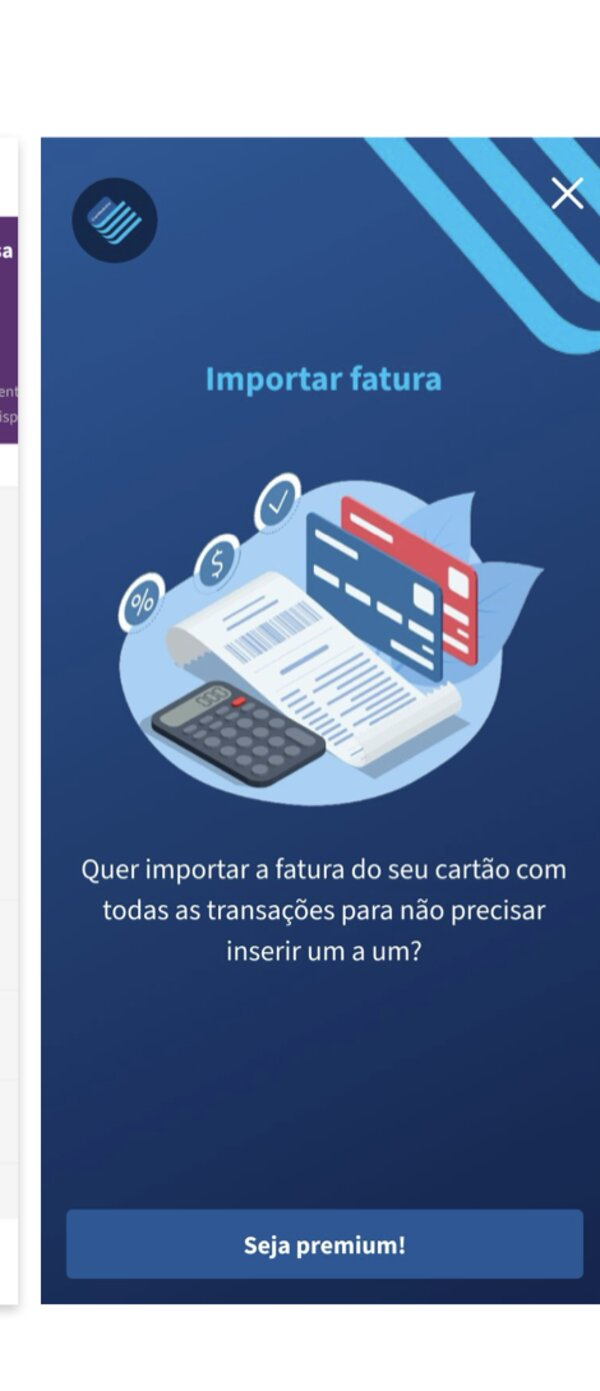
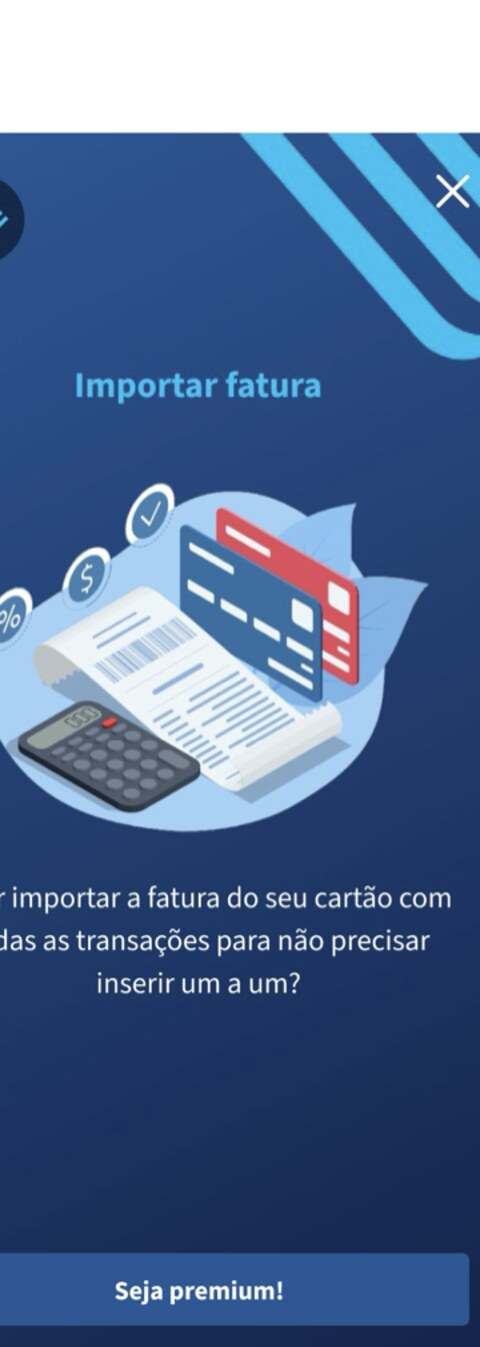
style: telas limpas sem moldura/fundo, cropadas direto dos mockups

diff --git a/src/styles/case.css b/src/styles/case.css
@@ -273,19 +273,21 @@
   color: var(--accent);
 }
 
-/* Telas individuais lado a lado (mockups limpos) */
+/* Telas individuais lado a lado (mockups sem moldura) */
 .screen-row {
   display: grid;
-  gap: 18px;
-  margin: 24px 0 32px;
+  gap: 24px;
+  margin: 32px 0;
+  align-items: end;
+  justify-items: center;
 }
-.screen-row--2 { grid-template-columns: repeat(2, 1fr); max-width: 560px; }
+.screen-row--2 { grid-template-columns: repeat(2, 1fr); max-width: 480px; margin-left: 0; margin-right: 0; }
 .screen-row--3 { grid-template-columns: repeat(3, 1fr); }
 .phone-screen {
-  border-radius: 16px;
-  overflow: hidden;
-  background: var(--surface);
+  margin: 0;
   display: block;
+  max-width: 220px;
+  width: 100%;
 }
 .phone-screen img {
   display: block;
@@ -296,13 +298,17 @@
   display: block;
   text-align: center;
   margin-top: 10px;
-  font-size: 0.82rem;
-  color: var(--accent);
+  font-size: 0.78rem;
+  color: var(--text-muted);
   font-family: 'JetBrains Mono', monospace;
 }
 @media (max-width: 640px) {
-  .screen-row--3 { grid-template-columns: 1fr; max-width: 280px; margin-left: auto; margin-right: auto; }
-  .screen-row--2 { grid-template-columns: 1fr; max-width: 280px; margin-left: auto; margin-right: auto; }
+  .screen-row--3, .screen-row--2 {
+    grid-template-columns: 1fr;
+    max-width: 220px;
+    margin-left: auto;
+    margin-right: auto;
+  }
 }
 
 /* SOON CARD */
